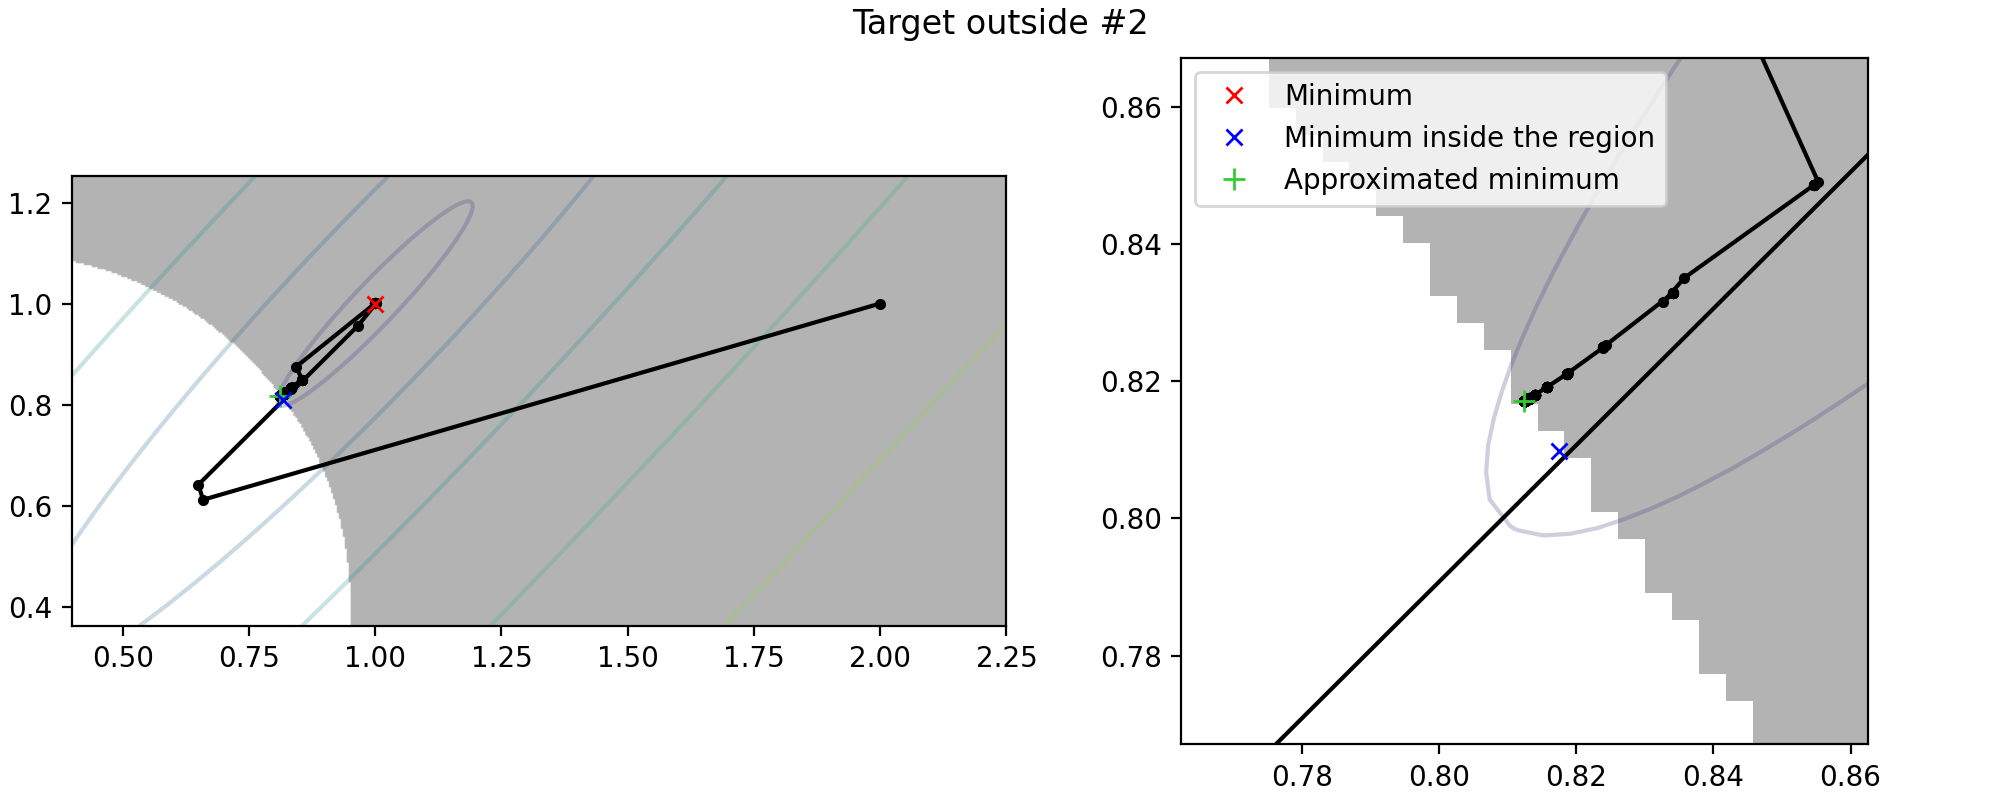
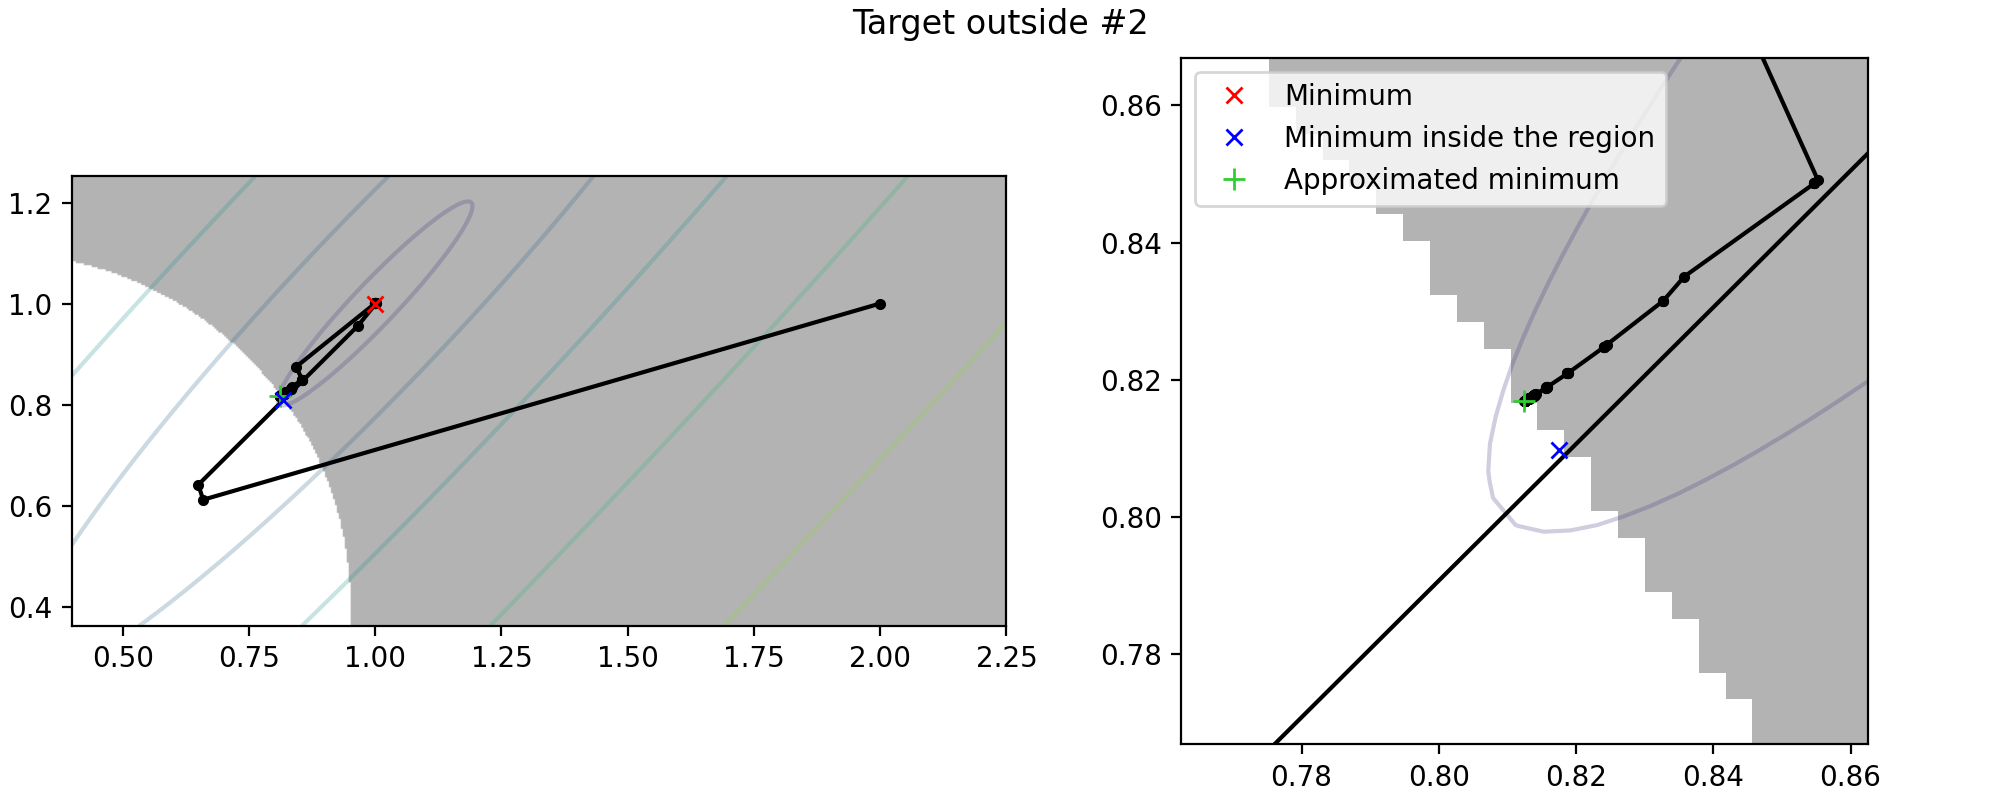
Improve research

diff --git a/research/with_constraints.py b/research/with_constraints.py
@@ -21,8 +21,8 @@ def research(func: Callable, x0: np.array, base_params: dict, real_target_x: np.
         'search_params': deepcopy(base_params),
         'r0': 1,
         'r_mult': 2,
-        'accuracy': 1e-5,
-        'max_iter': 10
+        'accuracy': 1e-4,
+        'max_iter': 12
     }
 
     params = part1_target_inside(func, x0, params, real_target_x, real_target_f)
@@ -55,16 +55,7 @@ def part1_target_inside(func, x0, base_params, real_target_x, real_target_f):
         pad_big_x=5, pad_big_y=10, pad_small_x=1, pad_small_y=1,
     )
 
-    image_search_path(
-        func, np.array((75, 0), dtype=np.float64), SEARCH_METHOD, params,
-        real_target_x, real_target_f,
-        'Target inside #3',
-        SUB_DIR, 'inside3',
-        levels_n=21, pixels_per_unit=32,
-        pad_big_x=5, pad_big_y=20, pad_small_x=1, pad_small_y=1,
-    )
-
-    params['search_params']['lambda_accuracy'] = 1e-6
+    params['search_params']['lambda_accuracy'] = 1e-5
     
     return params
 
@@ -73,18 +64,8 @@ def part2_target_outside(func, x0, base_params, real_target_x, real_target_f):
     params = deepcopy(base_params)
     params['constraints'] = [barrier_circle(0.25, 0.4, 0.7, False)]
 
-    target_wolfram_2d_x = np.array((0.822493, 0.815033))
-
-    img.search_path(
-        func, real_target_x, [target_wolfram_2d_x],
-        'Wolfram 2D',
-        SUB_DIR, 'wolfram_2d',
-        constraints=params['constraints'], constrained_target=target_wolfram_2d_x
-    )
-
-    t = 0.625463
-    target_wolfram_1d_x = np.array((0.25 + 0.7 * np.cos(t), 0.4 + 0.7 * np.sin(t)))
-    target_wolfram_1d_f = func(*target_wolfram_1d_x)
+    target_wolfram_x = np.array((0.817485, 0.809831))
+    target_wolfram_f = func(*target_wolfram_x)
 
 
     # === FIRST RUN ===
@@ -92,9 +73,20 @@ def part2_target_outside(func, x0, base_params, real_target_x, real_target_f):
         func, x0,
         SEARCH_METHOD, params,
         real_target_x, real_target_f,
-        'Target outside #1',
-        SUB_DIR, 'outside1',
-        constrained_target_x=target_wolfram_1d_x, constrained_target_f=target_wolfram_1d_f,
+        'Target outside #1.1',
+        SUB_DIR, 'outside1_1',
+        constrained_target_x=target_wolfram_x, constrained_target_f=target_wolfram_f,
+    )
+
+    params['search_params']['accuracy'] = 1e-5
+
+    image_search_path(
+        func, x0,
+        SEARCH_METHOD, params,
+        real_target_x, real_target_f,
+        'Target outside #1.2',
+        SUB_DIR, 'outside1_2',
+        constrained_target_x=target_wolfram_x, constrained_target_f=target_wolfram_f,
     )
 
     image_search_path(
@@ -103,7 +95,7 @@ def part2_target_outside(func, x0, base_params, real_target_x, real_target_f):
         real_target_x, real_target_f,
         'Target outside #2',
         SUB_DIR, 'outside2',
-        constrained_target_x=target_wolfram_1d_x, constrained_target_f=target_wolfram_1d_f,
+        constrained_target_x=target_wolfram_x, constrained_target_f=target_wolfram_f,
     )
     
     return params
@@ -116,9 +108,8 @@ def part3_target_outside_concave(func, x0, base_params, real_target_x, real_targ
         barrier_ellipse(0.25, 0, 0.4, 0.7, 0, True)
     ]
 
-    t = 0.625463
-    target_wolfram_1d_x = np.array((0.25 + 0.7 * np.cos(t), 0.4 + 0.7 * np.sin(t)))
-    target_wolfram_1d_f = func(*target_wolfram_1d_x)
+    target_wolfram_x = np.array((0.817485, 0.809831))
+    target_wolfram_f = func(*target_wolfram_x)
 
 
     # === FIRST RUN ===
@@ -128,19 +119,18 @@ def part3_target_outside_concave(func, x0, base_params, real_target_x, real_targ
         real_target_x, real_target_f,
         'Target outside, concave region #1',
         SUB_DIR, 'concave1',
-        constrained_target_x=target_wolfram_1d_x, constrained_target_f=target_wolfram_1d_f
+        constrained_target_x=target_wolfram_x, constrained_target_f=target_wolfram_f
     )
 
 
     # === CHANGE REGION ===
-    t = 0.775393
-    target_wolfram_1d_x = np.array((np.cos(t), np.sin(t)))
-    target_wolfram_1d_f = func(*target_wolfram_1d_x)
-
     params['constraints'] = [
         barrier_circle(0, 0, 1, False),
         barrier_ellipse(0.5, -0.5, 0.6, 1.4, 45, True)
     ]
+
+    target_wolfram_x = np.array((0.714146, 0.699997))
+    target_wolfram_f = func(*target_wolfram_x)
 
     image_search_path(
         func, np.array((-0.6, -0.6), dtype=np.float64),
@@ -148,7 +138,7 @@ def part3_target_outside_concave(func, x0, base_params, real_target_x, real_targ
         real_target_x, real_target_f,
         'Target outside, concave region #2',
         SUB_DIR, 'concave2',
-        constrained_target_x=target_wolfram_1d_x, constrained_target_f=target_wolfram_1d_f
+        constrained_target_x=target_wolfram_x, constrained_target_f=target_wolfram_f
     )
 
 

diff --git a/research/no_constraints.py b/research/no_constraints.py
@@ -93,6 +93,35 @@ def research(func: Callable, x0: np.array, base_params: dict, real_target_x: np.
     )
 
 
+    # === RESTART ===
+    image_call_and_deviation(
+        func, x0, SEARCH_METHOD, params,
+        'restart_lambda_threshold', np.linspace(1e-5, 0.5, 128),
+        None, None,
+        real_target_x, real_target_f,
+        None, 'Restart λ threshold',
+        SUB_DIR, 'restart'
+    )
+
+    image_call_and_deviation(
+        func, x0, SEARCH_METHOD, base_params,
+        'restart_lambda_threshold', np.linspace(1e-5, 0.5, 128),
+        None, 1e-1,
+        real_target_x, real_target_f,
+        None, 'Restart λ threshold',
+        SUB_DIR, 'restart_base'
+    )
+
+    tmp_params = deepcopy(base_params)
+    tmp_params['restart_lambda_threshold'] = 1e-1
+
+    image_search_path(
+        func, x0, SEARCH_METHOD, tmp_params,
+        real_target_x, real_target_f,
+        'Restart λ threshold: 0.1', SUB_DIR, 'restart'
+    )
+
+
     # === TERMINATION ===
     table_call_and_deviation(
         func, x0, SEARCH_METHOD, params,
@@ -144,7 +173,13 @@ def research(func: Callable, x0: np.array, base_params: dict, real_target_x: np.
         SUB_DIR, 'repeat_lambda'
     )
 
-    params['lambda_accuracy'] = 1e-6
+    params['lambda_accuracy'] = 1e-5
+
+    image_search_path(
+        func, x0, SEARCH_METHOD, params,
+        real_target_x, real_target_f,
+        'DSK-Powell, ε=0.00001', SUB_DIR, 'repeat_lambda'
+    )
 
 
     # === DERIVATION 2 ===
@@ -158,26 +193,11 @@ def research(func: Callable, x0: np.array, base_params: dict, real_target_x: np.
 
     params['derivation_h'] = 1e-1
 
-
-    # === RESTART ===
-    image_call_and_deviation(
-        func, x0, SEARCH_METHOD, params,
-        'restart_lambda_threshold', np.linspace(1e-5, 0.5, 128),
-        None, 1e-2,
-        real_target_x, real_target_f,
-        None, 'Restart λ threshold',
-        SUB_DIR, 'restart'
-    )
-
-    params['restart_lambda_threshold'] = 1e-2
-
     image_search_path(
         func, x0, SEARCH_METHOD, params,
         real_target_x, real_target_f,
-        'Restart λ threshold: 0.01', SUB_DIR, 'restart'
+        None, SUB_DIR, 'final'
     )
-
-    params.pop('restart_lambda_threshold')
 
 
     # === START POINT ===

diff --git a/methods/interval_methods.py b/methods/interval_methods.py
@@ -5,7 +5,6 @@ import numpy as np
 
 
 GOLDEN_SECTION_A = 2 / (3 + np.sqrt(5))
-NOT_UNIMODAL_ERROR = ValueError('Function isn\'t unimodal')
 
 
 # =======================================================================================
@@ -195,5 +194,5 @@ def _dsk_powell_approx(func, xs, fs):
     return approx_x, approx_f
 
 
-def vector_to_str(v):
-    return '(%s)' % ', '.join(map(lambda x: '%f' % x, v))
+# def vector_to_str(v):
+#     return '(%s)' % ', '.join(map(lambda x: '%f' % x, v))

diff --git a/main.py b/main.py
@@ -32,7 +32,7 @@ def main():
 
     # params = {
     #     'derivation_method': DerivationMethod.SYM_DIFF, 'derivation_h': 0.1,
-    #     'lambda_method': dsk_powell, 'delta_lambda': 0.31, 'lambda_accuracy': 1e-6,
+    #     'lambda_method': dsk_powell, 'delta_lambda': 0.31, 'lambda_accuracy': 1e-5,
     #     'modification': Modification.POLAK_RIBIERE,
     #     'termination_criterion': TerminationCriterion.X_AND_F_CHANGE, 'accuracy': 1e-8,
     #     'max_iter': 10000
